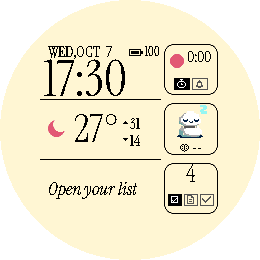
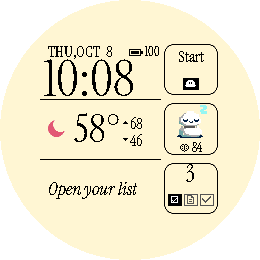
Refresh watch screenshots for the current Almanac interface

diff --git a/docs/testing.md b/docs/testing.md
@@ -65,6 +65,21 @@ timer details retain the full countdown. Example captures are
 `docs/screenshots/dashboard-timer-preview-emery.png` and
 `docs/screenshots/dashboard-timer-preview-gabbro.png`.
 
+Dashboard, mascot and conversation-menu captures were refreshed on 2026-10-08
+from the deployed watch source `95fd764`. The `dashboard-*.png` and
+`codey-dashboard-*.png` filenames contain the same current resting dashboard
+as `dashboard-almanac-5b-*.png`. The resting/thinking captures use synthetic
+58F moon weather (low 46, high 68), quota 84 and collection counts of 3.
+`dashboard-weather-emery.png` shows that same weather fixture. Timer-preview
+captures already contain the current countdown fix.
+
+| State | Emery | Gabbro |
+| --- | --- | --- |
+| Dashboard | [Almanac](screenshots/dashboard-almanac-5b-emery.png) | [Almanac](screenshots/dashboard-almanac-5b-gabbro.png) |
+| Thinking mascot | [Thinking](screenshots/codey-thinking-emery.png) | [Thinking](screenshots/codey-thinking-gabbro.png) |
+| Conversation menu | [Menu](screenshots/agent-menu-emery.png) | [Menu](screenshots/agent-menu-gabbro.png) |
+| Timer preview | [22 seconds](screenshots/dashboard-timer-preview-emery.png) | [22 seconds](screenshots/dashboard-timer-preview-gabbro.png) |
+
 ### Streaming efficiency regressions
 
 Phone tests verify that UTF-8 truncation stops after the requested prefix while
